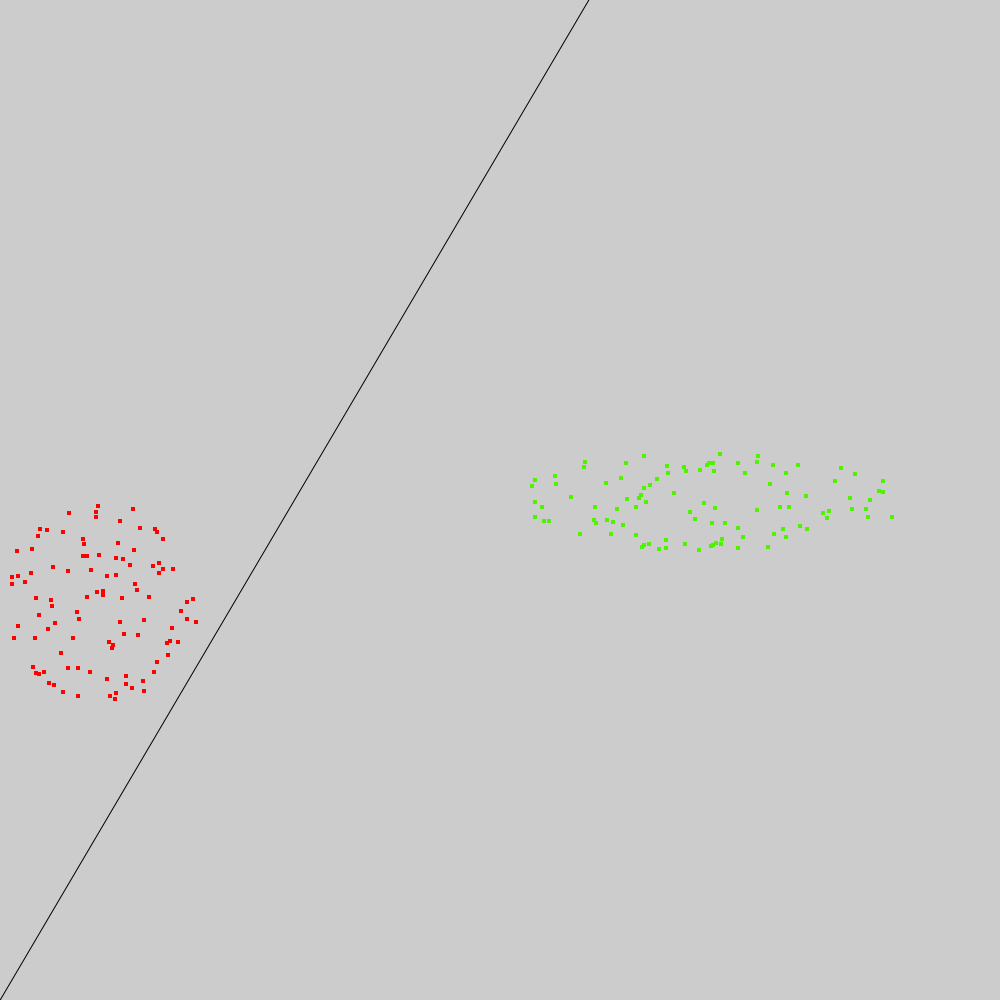
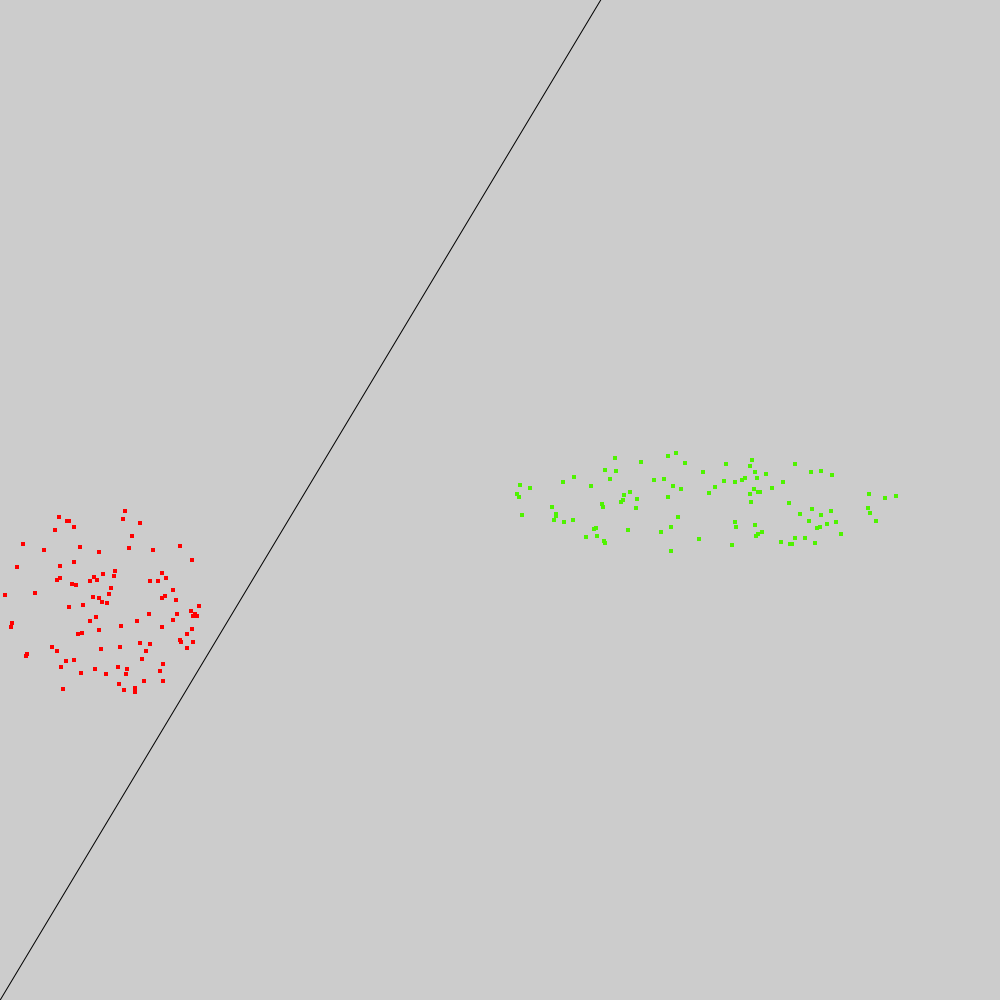
Perceptron

diff --git a/app/perceptron.js b/app/perceptron.js
@@ -1,0 +1,86 @@
+const fs = require('fs');
+const result = fs.readFileSync('../results/result.json', { encoding: 'utf8', flag: 'r' });
+const resultJson = JSON.parse(result);
+const { createCanvas } = require('canvas');
+
+const math = require('mathjs');
+
+
+let __features = [];
+let __labels = [];
+
+resultJson.forEach((item) => {
+    item.points.forEach((point, i) => {
+        __labels.push(item.arrItem === 0 ? -1 : 1)
+        __features.push([+point.myX, +point.myY])
+    })
+})
+
+function perceptron(data, label, e) {
+    let w = [0, 1];
+    let b = 0;
+    let separated = false;
+
+    while (!separated) {
+        separated = true;
+        for (let i = 0; i <= data.length; i++) {
+
+            if (((label[i] * (w[0] * data[i]?.[0] + w[1] * data[i]?.[1] + b)) <= 0)) {
+                separated = false;
+                w[0] += e * label[i] * data[i][0]
+                w[1] += e * label[i] * data[i][1]
+                b += e * label[i]
+            }
+        }
+
+    }
+
+    let slope = -w[0] / w[1];
+    let intercept = -b / w[1];
+    return { slope, intercept }
+}
+
+const { slope, intercept } = perceptron(__features, __labels, 1);
+
+
+// нарисовать точки
+
+
+
+let xArr = [0, 1000];
+let yArr = [];
+
+xArr.forEach((x) => {
+    yArr.push(intercept + slope * x);
+})
+
+console.log('xArr >>> ', xArr);
+console.log('yArr >>> ', yArr);
+
+// рисуем линию
+
+const width = 1000;
+const height = 1000;
+
+const canvas = createCanvas(width, height);
+const context = canvas.getContext("2d");
+
+context.fillStyle = "#cccccc";
+context.fillRect(0, 0, width, height);
+
+context.moveTo(xArr[0], 1000 - yArr[0]);
+context.lineTo(xArr[1], 1000 - yArr[1]);
+
+context.stroke();
+
+
+
+__features.map((item, i) => {
+    const [me_x, me_y] = item;
+
+    context.fillStyle = __labels[i] === 1 ? '#ff0000' : '#4ef300';
+    context.fillRect(me_x*100, 1000 - me_y*100, 4, 4);
+})
+
+const buffer = canvas.toBuffer("image/png");
+fs.writeFileSync("../images/lab4.png", buffer);

diff --git a/app/hoKashiapa.js b/app/hoKashiapa.js
@@ -75,9 +75,6 @@ const context = canvas.getContext("2d");
 context.fillStyle = "#cccccc";
 context.fillRect(0, 0, width, height);
 
-
-
-
 context.moveTo(xArr[0], 1000 - yArr[0]);
 context.lineTo(xArr[1], 1000 - yArr[1]);
 
